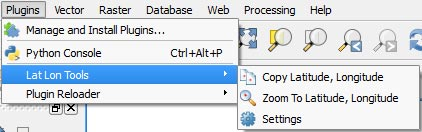
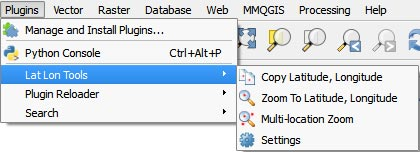
Updated the metadata and documentation.

diff --git a/readme.md b/readme.md
@@ -1,15 +1,19 @@
 #Lat Lon Tools Plugin
 
-When working with Google Earth, Google Maps or other on-line mapping tools coordinates are specified in the format of 'Latitude, Longitude', but the similar existing QGIS plugins specify the coordinates in the reverse order or require separate fields for latitude and longitude. This makes it so that you cannot just copy and paste between QGIS and Google Maps. This plugin fixes this problem and adds some additional functionality. This plugin has two tools.
+When working with Google Earth, Google Maps or other on-line mapping tools coordinates are specified in the order of 'Latitude, Longitude', but the similar existing QGIS plugins specify the coordinates in the reverse order or require separate fields for latitude and longitude. This makes it so that you cannot just copy and paste between QGIS and Google Maps. This plugin fixes this problem and adds some additional functionality. Lat Lon Tools has three tools.
 
 ![Lat Lon Tools Plugin](doc/menu.jpg)
 
 * **Copy Latitude, Longitude** - This captures coordinates onto the clipboard when the user clicks on the map using the standard Google Map format or a format specified in *Settings*. If the user specifies a tab separator, then the coordinate can be pasted into a spreadsheet in separate columns. While this tool is selected, the coordinate the mouse is over is shown in the lower left-hand corner either in decimal degrees or DMS depending on the *Settings*.
-* **Zoom to Latitude, Longitude** - With this tool type or paste a coordinate into the text area and hit *Enter*. The format can either be DMS or in decimal degrees, but latitude must be first followed by longitude.
+* **Zoom to Latitude, Longitude** - With this tool, type or paste a coordinate into the text area and hit *Enter*. QGIS will then center the map on the coordinate and highlight the location. The format can either be DMS or in decimal degrees, but latitude must be first followed by longitude. 
 
 ![Zoom to Latitude, Longitude](doc/zoomto.jpg)
 
-There are similar QGIS plugins, but they do not follow the Google Map convention. Lat Lon Tools makes it possible to copy and paste between QGIS, Google Earth, and other on-line maps. Both tools work with latitude and longitude coordinates regardless of the QGIS project coordinate reference system. In the settings the user can choose the delimiter used between coordinates with presets for comma, space, and tab. *Other* allows the user to specify a delimited string which can be more than one character. The user can also choose whether the output format is in decimal degrees, DMS coordinates or in the native CRS.
+* **Multi-location Zoom** - With this tool the user can read in a set of coordinates that are in either decimal degrees or DMS notation. The one requirement is that each pair of coordinates are on separate lines and in the order of latitude followed by longitude. The user can also paste or type in a coordinate in the *Add Single Coordinate* box and add it to the list. When the user clicks on one of the coordinates in the list, the QGIS map will center itself highlight the coordinate.
+
+![Multi-location Zoom](doc/multizoom.jpg)
+
+Because Lat Lon Tools follow the Google Map convention, it makes it possible to copy and paste between QGIS, Google Map, Google Earth, and other on-line maps. All tools work with latitude and longitude coordinates regardless of the QGIS project coordinate reference system. In the settings the user can choose the delimiter used between coordinates with presets for comma, space, and tab. *Other* allows the user to specify a delimited string which can be more than one character. The user can also choose whether the output format is in decimal degrees, DMS coordinates or in the native CRS.
 
 ##Settings
 This is the settings dialog box.
